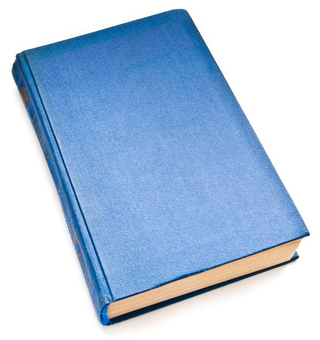
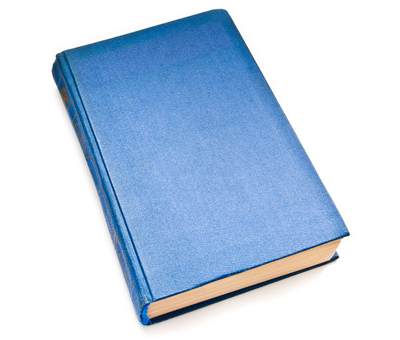
image fixes

diff --git a/LandProd-Dev/index2.html b/LandProd-Dev/index2.html
@@ -35,7 +35,7 @@
 		<div class="container">
 			<div class="row">
 				<div class="col-md-5 col-sm-4">
-					<img src="resources/img/book.jpg" alt="Product image" class="img-responsive"/>
+					<img src="resources/img/book.jpg" alt="Product image" class="img-responsive center-block"/>
 				</div>
 				<div class="col-md-7 col-sm-8 product-description">
 					<div class="row">

diff --git a/LandProd-Dev/index.html b/LandProd-Dev/index.html
@@ -62,7 +62,7 @@
 		<div class="container">
 			<div class="row">
 				<div class="col-md-5 col-sm-4">
-					<img src="resources/img/book.jpg" alt="Product image" class="img-responsive"/>
+					<img src="resources/img/book.jpg" alt="Product image" class="img-responsive center-block"/>
 				</div>
 				<div class="col-md-7 col-sm-8 coming-soon">
 					<div class="row">
